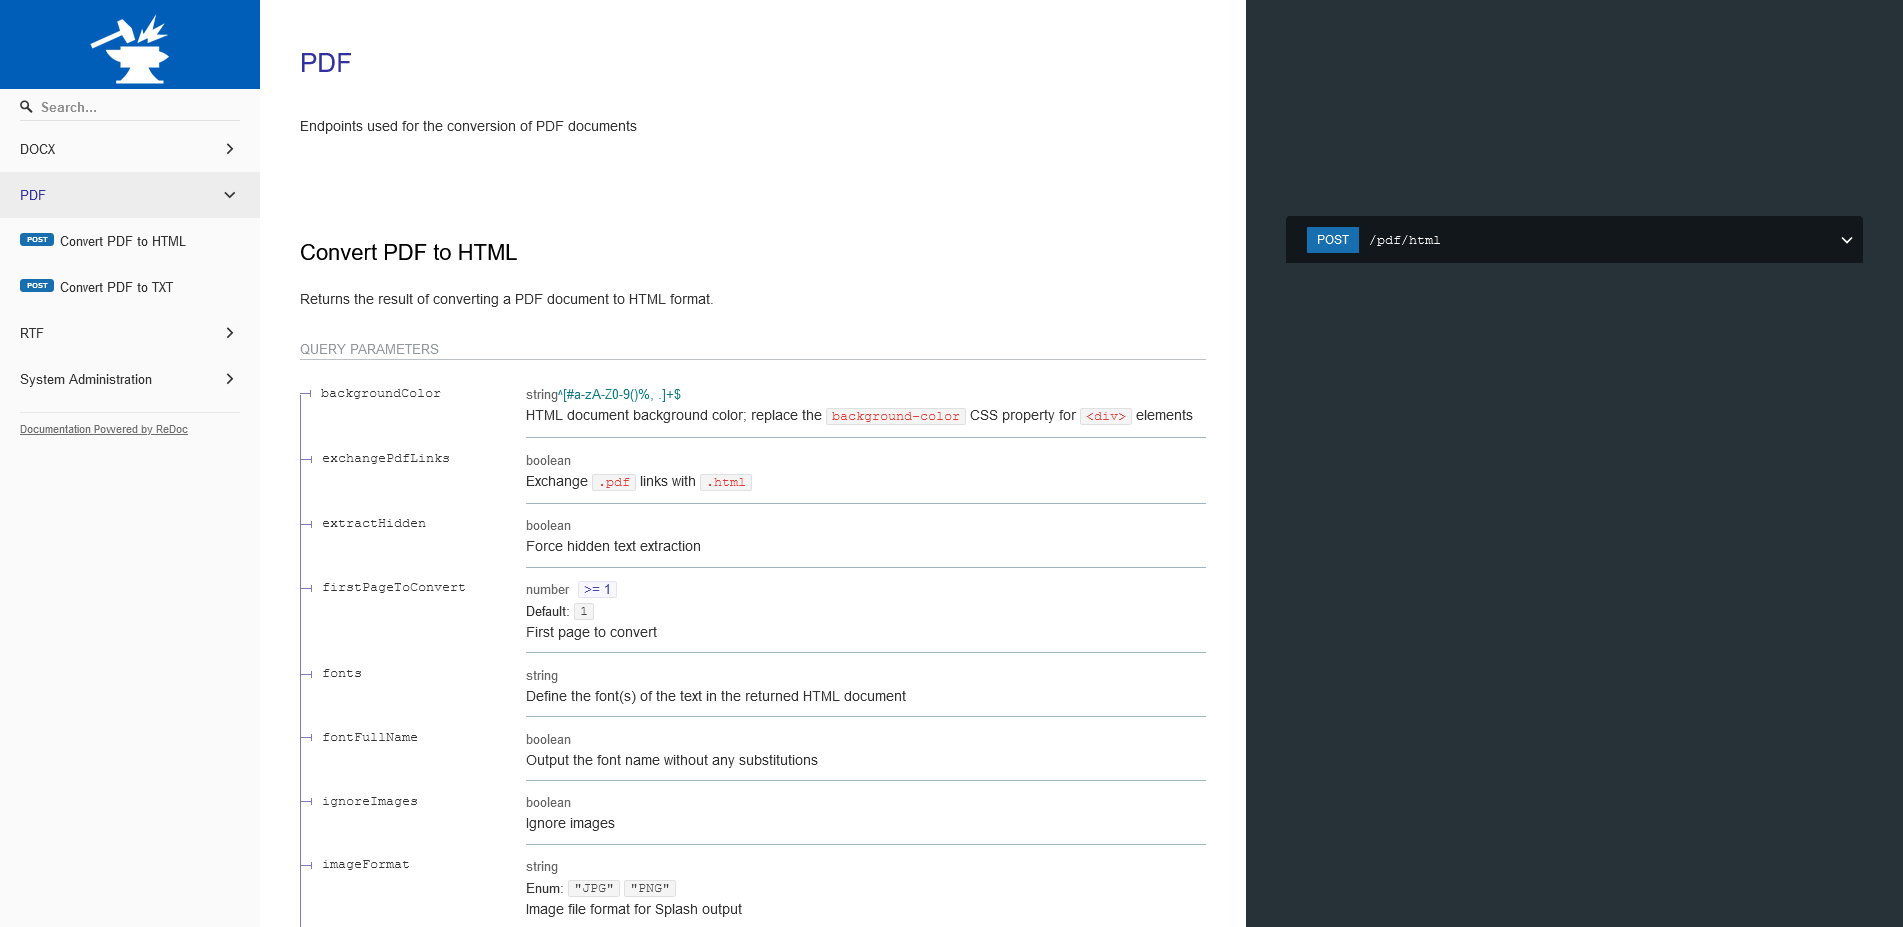
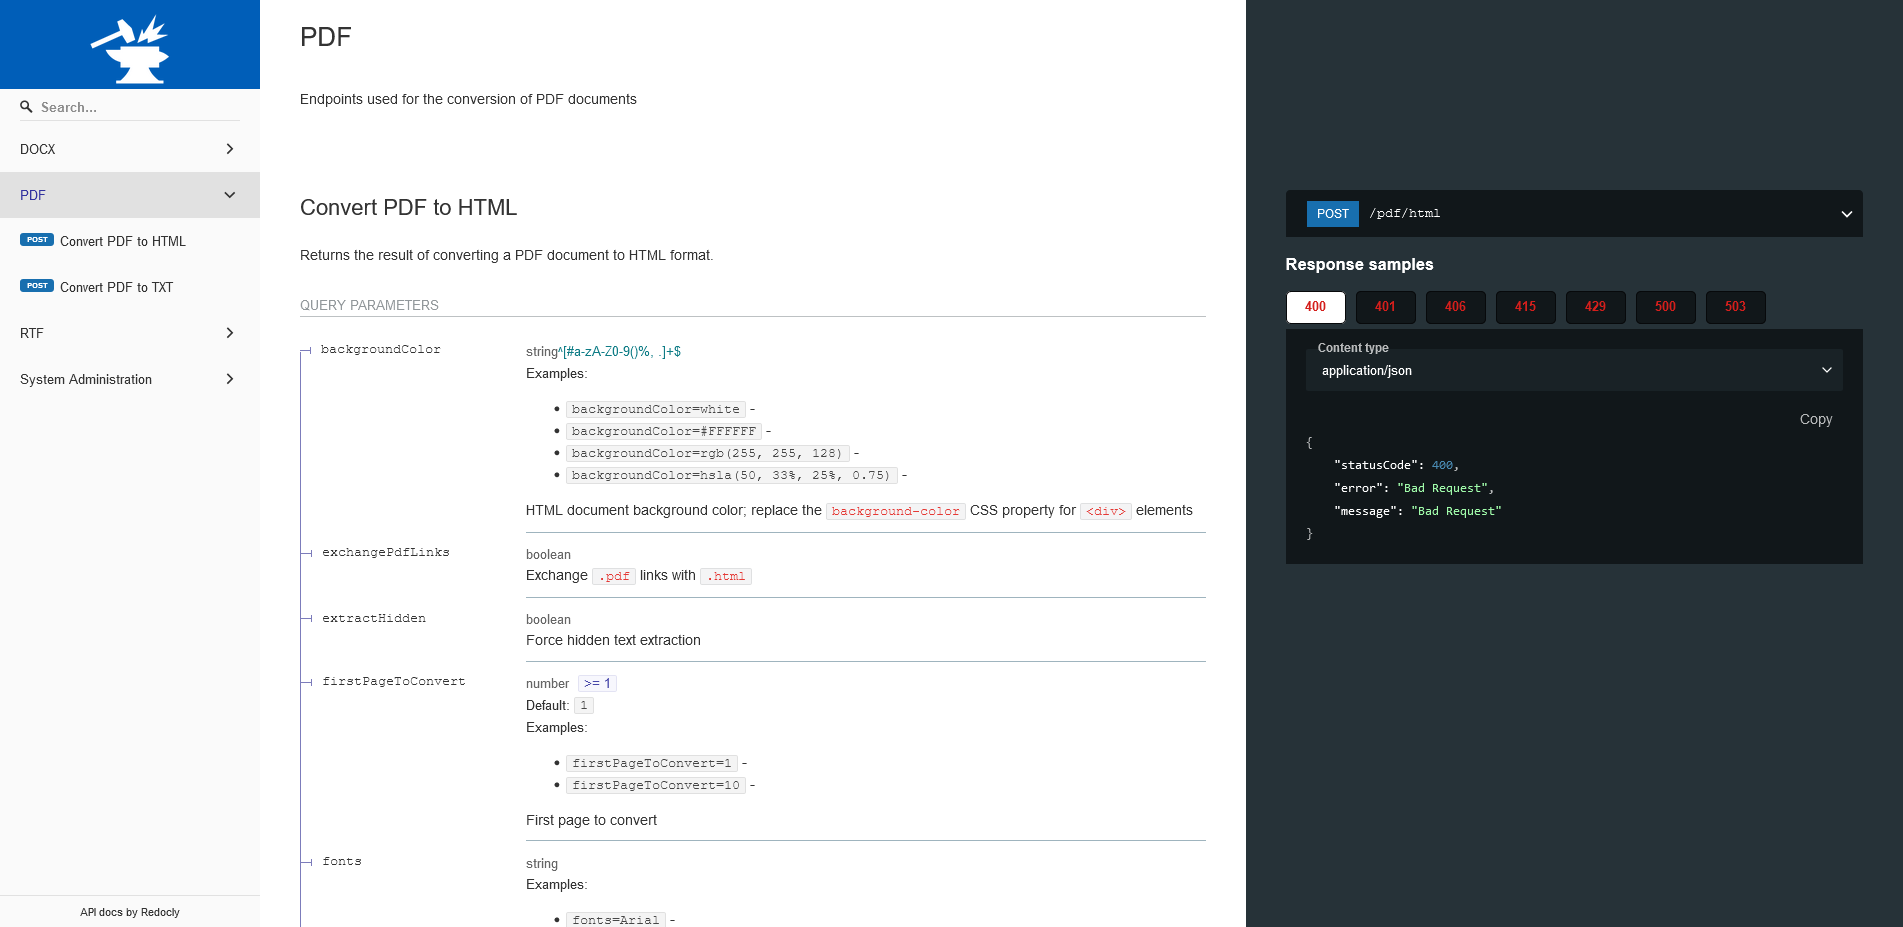
fix(routes): openapi schema content types

diff --git a/src/routes/pdf/txt/schema.js b/src/routes/pdf/txt/schema.js
@@ -15,7 +15,7 @@ const pdfToTxtPostSchema = {
 		"Returns the result of converting a PDF document to TXT or simple HTML format.",
 	operationId: "postPdfToTxt",
 	consumes: ["application/pdf"],
-	produces: ["text/html", "text/plain"],
+	produces: ["application/json", "application/xml"],
 	query: S.object()
 		.prop(
 			"boundingBoxXhtml",
@@ -135,7 +135,20 @@ const pdfToTxtPostSchema = {
 				.maxLength(127)
 		),
 	response: {
-		200: S.string(),
+		200: {
+			content: {
+				"text/html": {
+					schema: {
+						type: "string",
+					},
+				},
+				"text/plain": {
+					schema: {
+						type: "string",
+					},
+				},
+			},
+		},
 		400: S.ref("responses#/properties/badRequest").description(
 			"Bad Request"
 		),

diff --git a/src/routes/pdf/html/schema.js b/src/routes/pdf/html/schema.js
@@ -15,7 +15,7 @@ const pdfToHtmlPostSchema = {
 		"Returns the result of converting a PDF document to HTML format.",
 	operationId: "postPdfToHtml",
 	consumes: ["application/pdf"],
-	produces: ["text/html"],
+	produces: ["application/json", "application/xml"],
 	query: S.object()
 		.additionalProperties(false)
 		.prop(
@@ -136,7 +136,15 @@ const pdfToHtmlPostSchema = {
 			S.number().default(1.5).description("Zoom the PDF document")
 		),
 	response: {
-		200: S.string(),
+		200: {
+			content: {
+				"text/html": {
+					schema: {
+						type: "string",
+					},
+				},
+			},
+		},
 		400: S.ref("responses#/properties/badRequest").description(
 			"Bad Request"
 		),

diff --git a/src/routes/rtf/html/schema.js b/src/routes/rtf/html/schema.js
@@ -15,7 +15,7 @@ const rtfToHtmlPostSchema = {
 		"Returns the result of converting an RTF document to HTML format. Images are discarded.",
 	operationId: "postRtfToHtml",
 	consumes: ["application/rtf"],
-	produces: ["text/html"],
+	produces: ["application/json", "application/xml"],
 	query: S.object()
 		.additionalProperties(false)
 		.prop(
@@ -56,7 +56,15 @@ const rtfToHtmlPostSchema = {
 			)
 		),
 	response: {
-		200: S.string(),
+		200: {
+			content: {
+				"text/html": {
+					schema: {
+						type: "string",
+					},
+				},
+			},
+		},
 		400: S.ref("responses#/properties/badRequest").description(
 			"Bad Request"
 		),

diff --git a/src/routes/docx/html/schema.js b/src/routes/docx/html/schema.js
@@ -17,7 +17,7 @@ const docxToHtmlPostSchema = {
 	consumes: [
 		"application/vnd.openxmlformats-officedocument.wordprocessingml.document",
 	],
-	produces: ["text/html"],
+	produces: ["application/json", "application/xml"],
 	query: S.object()
 		.additionalProperties(false)
 		.prop(
@@ -58,7 +58,15 @@ const docxToHtmlPostSchema = {
 			)
 		),
 	response: {
-		200: S.string(),
+		200: {
+			content: {
+				"text/html": {
+					schema: {
+						type: "string",
+					},
+				},
+			},
+		},
 		400: S.ref("responses#/properties/badRequest").description(
 			"Bad Request"
 		),

diff --git a/src/routes/admin/healthcheck/schema.js b/src/routes/admin/healthcheck/schema.js
@@ -14,9 +14,18 @@ const healthcheckGetSchema = {
 	description:
 		"This is a dummy endpoint you can use to test if the server is accessible.",
 	operationId: "getHealthcheck",
-	produces: ["text/plain"],
+	produces: ["application/json", "application/xml"],
 	response: {
-		200: S.string().const("ok"),
+		200: {
+			content: {
+				"text/plain": {
+					schema: {
+						type: "string",
+						enum: ["ok"],
+					},
+				},
+			},
+		},
 		406: S.ref("responses#/properties/notAcceptable").description(
 			"Not Acceptable"
 		),

diff --git a/src/routes/rtf/txt/schema.js b/src/routes/rtf/txt/schema.js
@@ -15,9 +15,17 @@ const rtfToTxtPostSchema = {
 		"Returns the result of converting an RTF document to TXT format.",
 	operationId: "postRtfToTxt",
 	consumes: ["application/rtf"],
-	produces: ["text/plain"],
+	produces: ["application/json", "application/xml"],
 	response: {
-		200: S.string(),
+		200: {
+			content: {
+				"text/plain": {
+					schema: {
+						type: "string",
+					},
+				},
+			},
+		},
 		400: S.ref("responses#/properties/badRequest").description(
 			"Bad Request"
 		),

diff --git a/src/routes/docs/schema.js b/src/routes/docs/schema.js
@@ -11,9 +11,17 @@ const docsGetSchema = {
 	summary: "List documentation",
 	description: "Retrieves OpenAPI documentation.",
 	operationId: "getDocs",
-	produces: ["text/html"],
+	produces: ["application/json", "application/xml"],
 	response: {
-		200: S.string(),
+		200: {
+			content: {
+				"text/html": {
+					schema: {
+						type: "string",
+					},
+				},
+			},
+		},
 		406: S.ref("responses#/properties/notAcceptable").description(
 			"Not Acceptable"
 		),

diff --git a/src/routes/docx/txt/schema.js b/src/routes/docx/txt/schema.js
@@ -17,9 +17,17 @@ const docxToTxtPostSchema = {
 	consumes: [
 		"application/vnd.openxmlformats-officedocument.wordprocessingml.document",
 	],
-	produces: ["text/plain"],
+	produces: ["application/json", "application/xml"],
 	response: {
-		200: S.string(),
+		200: {
+			content: {
+				"text/plain": {
+					schema: {
+						type: "string",
+					},
+				},
+			},
+		},
 		400: S.ref("responses#/properties/badRequest").description(
 			"Bad Request"
 		),

diff --git a/src/routes/docs/openapi/schema.js b/src/routes/docs/openapi/schema.js
@@ -11,7 +11,7 @@ const docsOpenapiGetSchema = {
 	summary: "List OpenAPI specification",
 	description: "Retrieves OpenAPI specification.",
 	operationId: "getDocsOpenapi",
-	produces: ["application/json"],
+	produces: ["application/json", "application/xml"],
 	response: {
 		200: S.object()
 			.additionalProperties(true)
